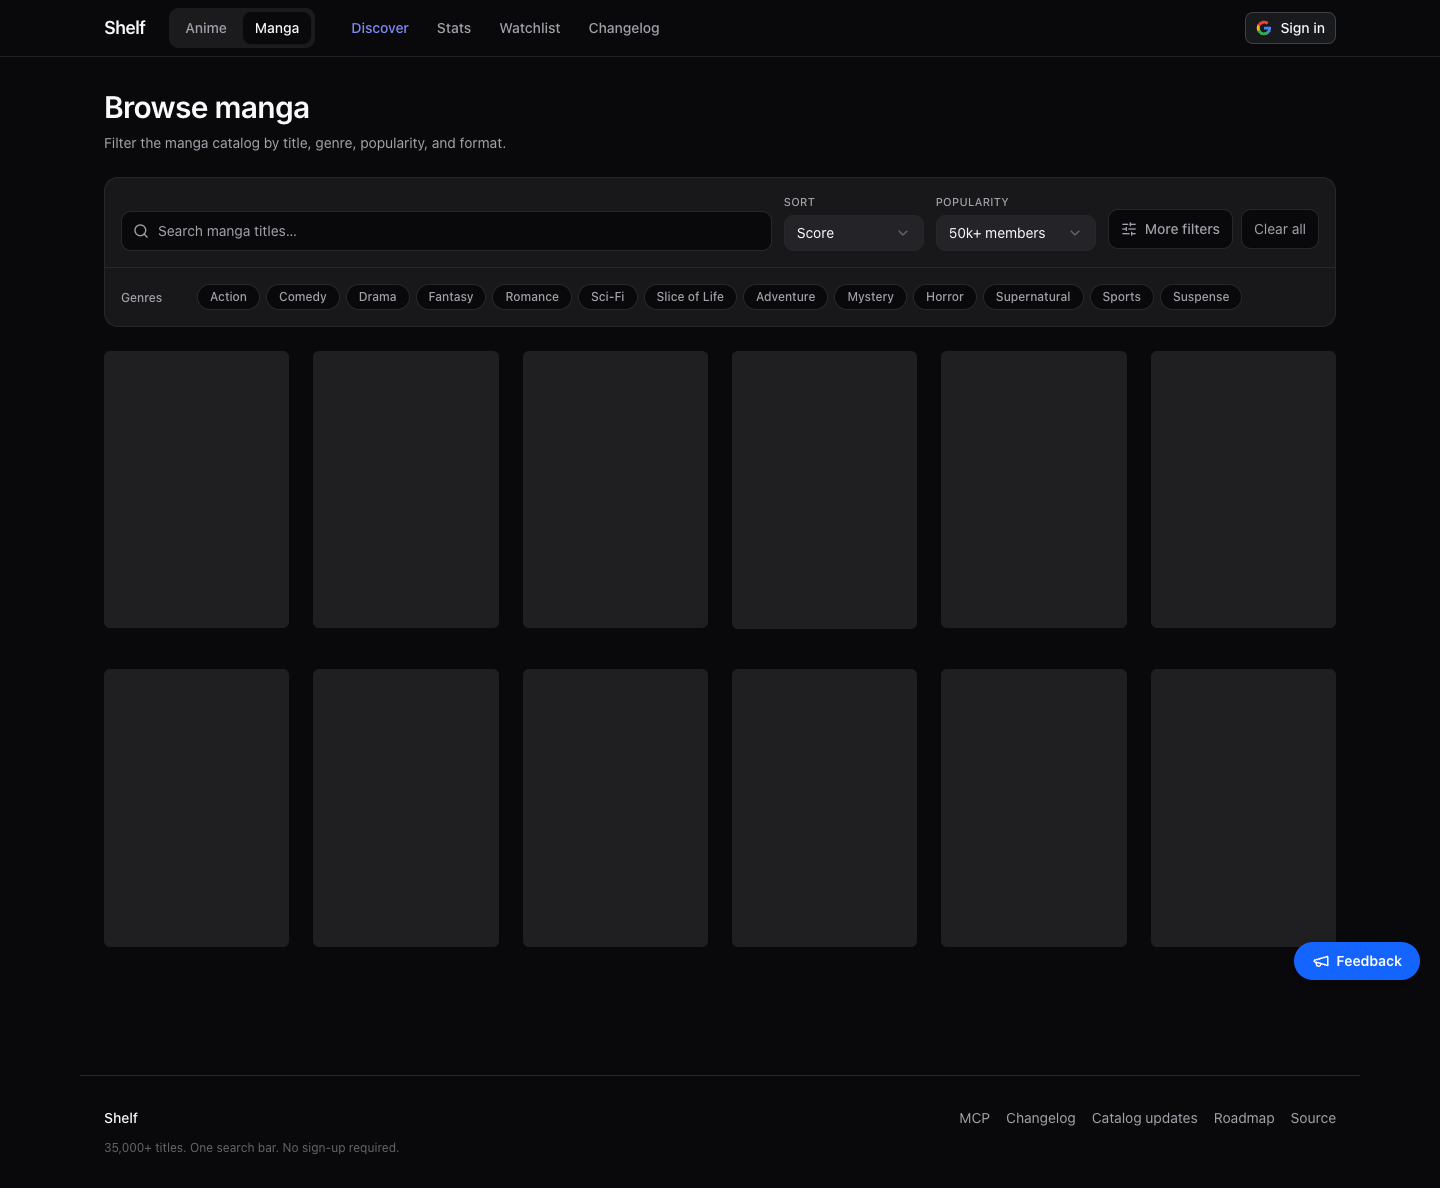
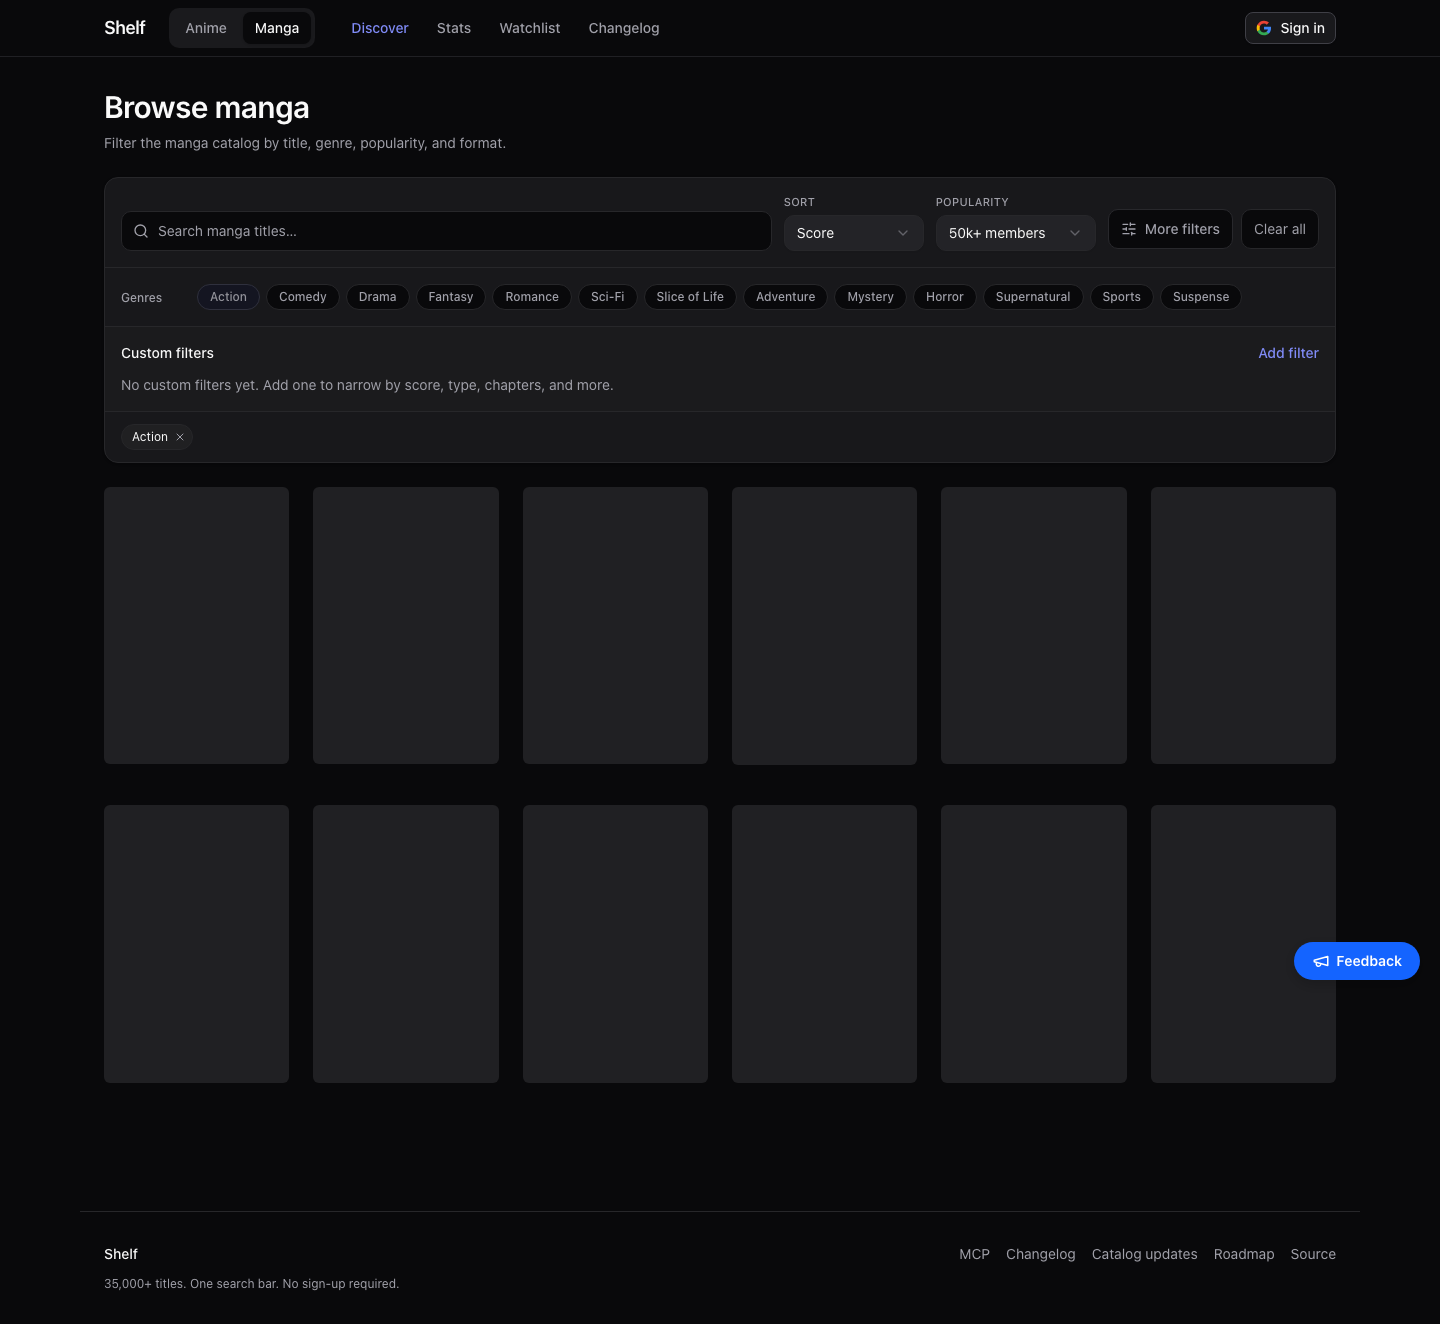
fix: close manga filter accessibility gaps

diff --git a/components/discover/ui.tsx b/components/discover/ui.tsx
@@ -1,6 +1,7 @@
 'use client';
 
 import { Search, SlidersHorizontal, X } from 'lucide-react';
+import { useId } from 'react';
 import { cn } from '@/lib/utils';
 import {
   Select,
@@ -62,13 +63,21 @@ export function DiscoverSelect({
   options: readonly { value: string; label: string }[];
   className?: string;
 }) {
+  const labelId = useId();
+
   return (
     <div className={cn('min-w-[140px]', className)}>
-      <label className="mb-1 block text-[11px] font-medium uppercase tracking-wide text-muted-foreground">
+      <label
+        id={labelId}
+        className="mb-1 block text-[11px] font-medium uppercase tracking-wide text-muted-foreground"
+      >
         {label}
       </label>
       <Select value={value} onValueChange={onValueChange}>
-        <SelectTrigger className="h-10 w-full rounded-lg border-border bg-background text-sm">
+        <SelectTrigger
+          aria-labelledby={labelId}
+          className="h-10 w-full rounded-lg border-border bg-background text-sm"
+        >
           <SelectValue />
         </SelectTrigger>
         <SelectContent className="border-border bg-popover">
@@ -95,6 +104,7 @@ export function DiscoverToggleButton({
   return (
     <button
       type="button"
+      aria-expanded={active}
       onClick={onClick}
       className={cn(
         'inline-flex h-10 items-center gap-2 rounded-lg border px-3 text-sm font-medium transition-colors',
@@ -154,11 +164,12 @@ export function GenrePills({
           <button
             key={genre}
             type="button"
+            aria-pressed={isSelected}
             onClick={() => onToggle(genre)}
             className={cn(
               'rounded-full border px-3 py-1 text-xs font-medium transition-colors',
               isSelected
-                ? 'border-primary bg-primary text-primary-foreground'
+                ? 'border-primary bg-primary text-background'
                 : 'border-border bg-background text-muted-foreground hover:border-ring hover:text-foreground'
             )}
           >

diff --git a/components/discover/ui.test.tsx b/components/discover/ui.test.tsx
@@ -1,0 +1,45 @@
+import { fireEvent, render, screen } from '@testing-library/react';
+import { DiscoverSelect, DiscoverToggleButton, GenrePills } from './ui';
+
+describe('discover filter accessibility', () => {
+  it('associates the visible label with a select trigger', () => {
+    render(
+      <DiscoverSelect
+        label="Sort"
+        value="score"
+        onValueChange={() => undefined}
+        options={[{ value: 'score', label: 'Score' }]}
+      />
+    );
+
+    expect(screen.getByRole('combobox', { name: 'Sort' })).toBeInTheDocument();
+  });
+
+  it('exposes whether additional filters are expanded', () => {
+    const { rerender } = render(<DiscoverToggleButton active={false} onClick={() => undefined} />);
+
+    expect(screen.getByRole('button', { name: 'More filters' })).toHaveAttribute(
+      'aria-expanded',
+      'false'
+    );
+
+    rerender(<DiscoverToggleButton active onClick={() => undefined} />);
+
+    expect(screen.getByRole('button', { name: 'More filters' })).toHaveAttribute(
+      'aria-expanded',
+      'true'
+    );
+  });
+
+  it('exposes genre selection state and keeps the toggle operable', () => {
+    const onToggle = vi.fn();
+
+    render(<GenrePills genres={['Action', 'Comedy']} selected={['Action']} onToggle={onToggle} />);
+
+    expect(screen.getByRole('button', { name: 'Action' })).toHaveAttribute('aria-pressed', 'true');
+    expect(screen.getByRole('button', { name: 'Comedy' })).toHaveAttribute('aria-pressed', 'false');
+
+    fireEvent.click(screen.getByRole('button', { name: 'Comedy' }));
+    expect(onToggle).toHaveBeenCalledWith('Comedy');
+  });
+});

diff --git a/components/Footer.tsx b/components/Footer.tsx
@@ -62,7 +62,7 @@ export default function Footer() {
           </a>
         </div>
       </div>
-      <p className="mt-3 text-xs text-muted-foreground/60">
+      <p className="mt-3 text-xs text-muted-foreground">
         35,000+ titles. One search bar. No sign-up required.
       </p>
     </footer>

diff --git a/PROJECT_STATUS.md b/PROJECT_STATUS.md
@@ -53,6 +53,11 @@ Last updated: 2026-07-25
 
 ## Timeline
 
+- **2026-07-31** — Closed the remaining manga-search accessibility review:
+  visible labels now name the sort controls, expandable and selectable filters
+  expose state, and the two failing text treatments now exceed WCAG AA
+  contrast. Fresh 390, 768, and 1440 pixel evidence has no Axe A/AA violations
+  or horizontal overflow. Production deployment remains manual.
 - **2026-07-31** — Completed source-level public SEO and agent coverage from
   one 13-route registry: accurate static-route metadata, 7,607 canonical
   sitemap URLs, 7,607 source-derived Markdown companions, and compact anime
